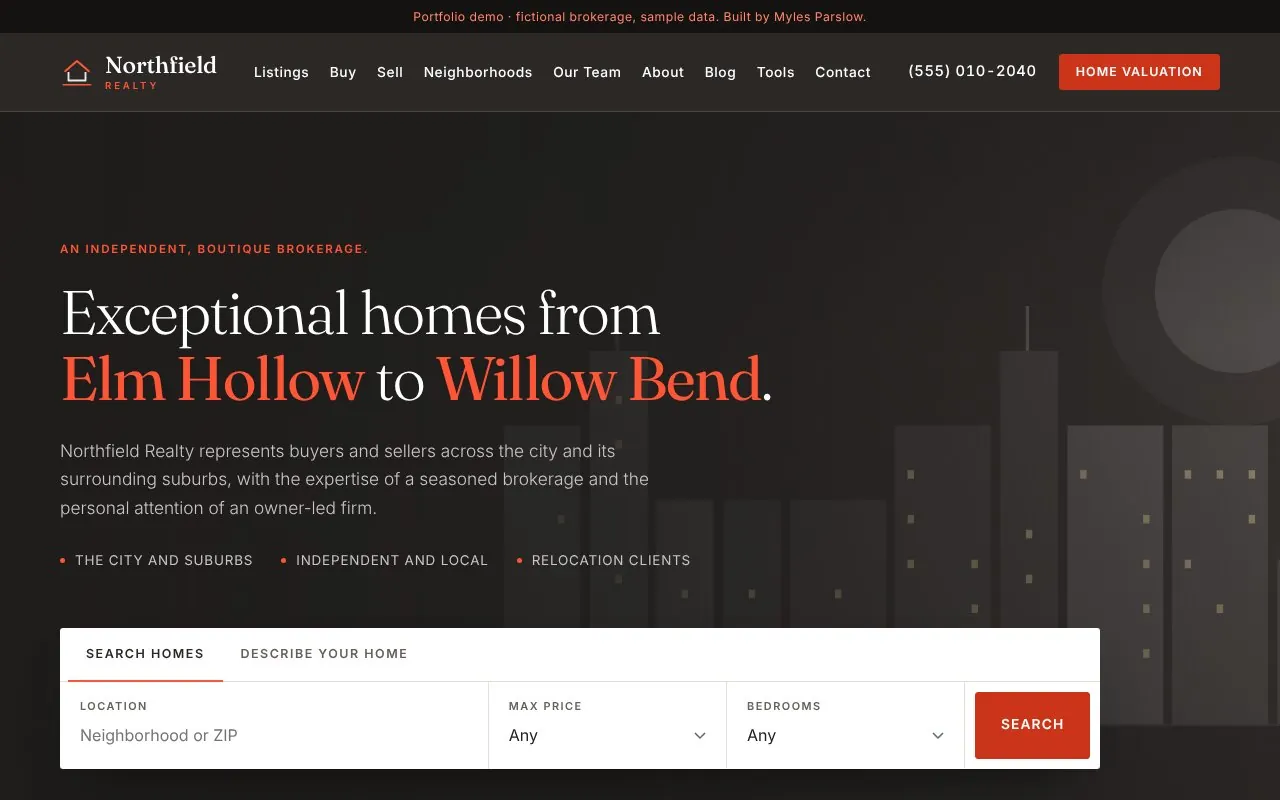
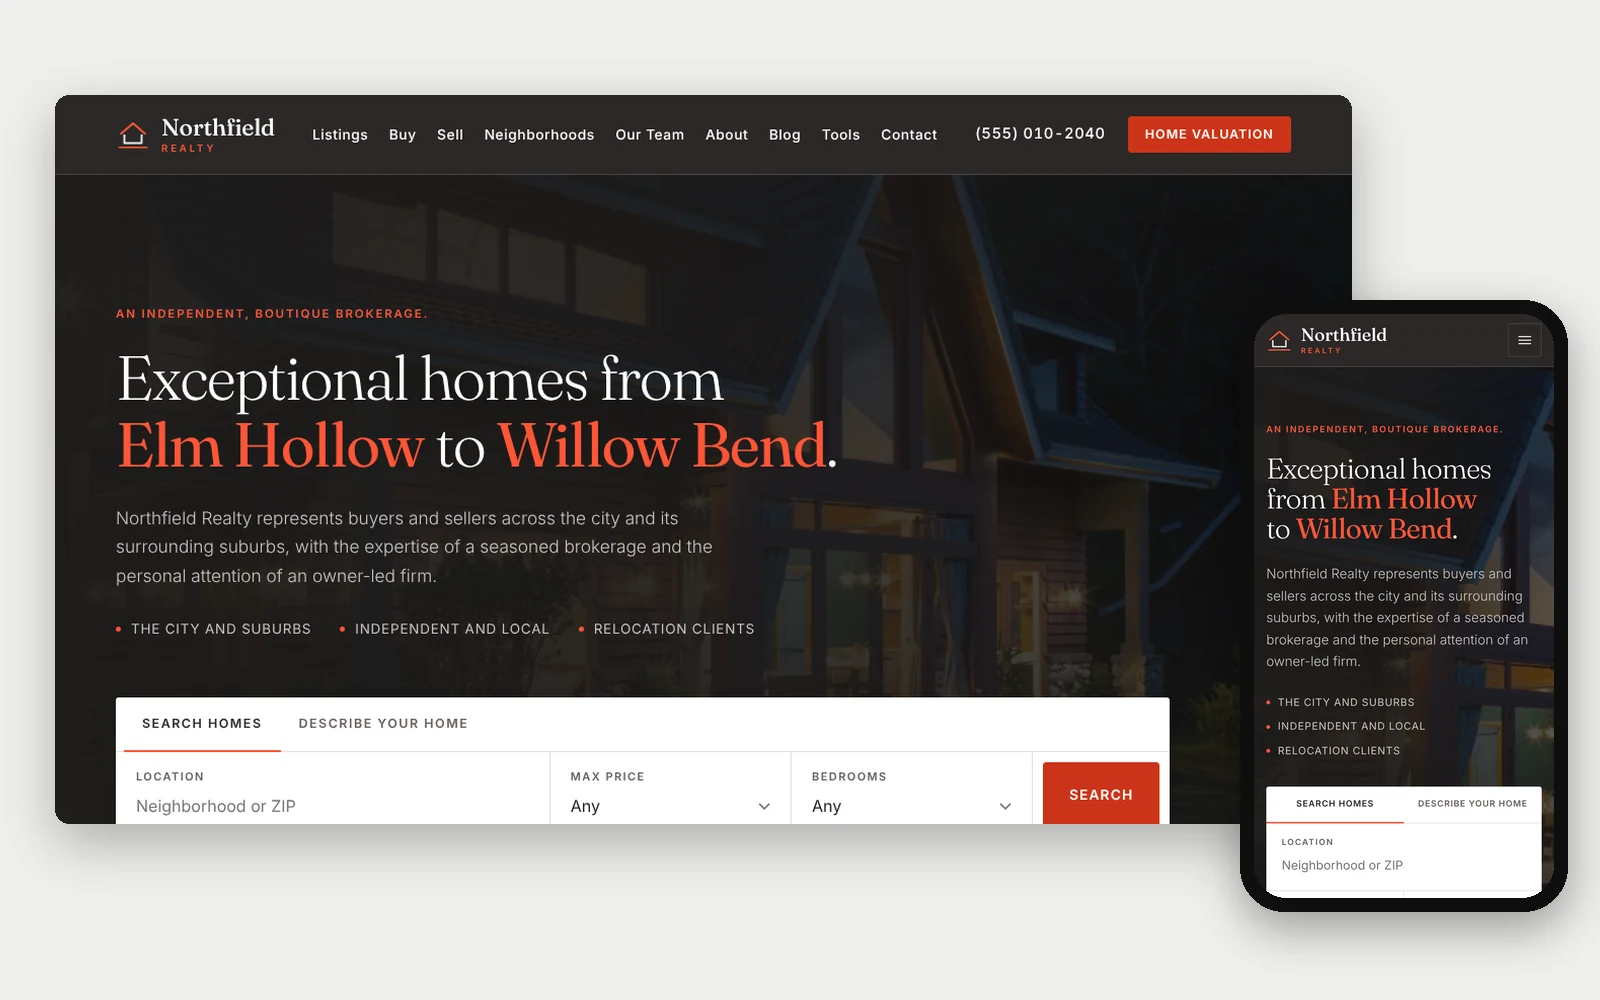
Retake the brokerage screenshot from the version with photos
Claude-Session: https://claude.ai/code/session_01PJvvaKf9xbefScvL2GrXgP

diff --git a/index.html b/index.html
@@ -612,7 +612,7 @@ footer b{color:var(--on-night);font:400 22px/1 var(--display)}
 
       <details class="case rv d1" id="case-brokerage">
         <summary>
-          <div class="thumb"><img src="img/brokerage-site.webp" width="1280" height="800" alt="A redesigned real estate website" loading="lazy"></div>
+          <div class="thumb"><img src="img/brokerage-site.webp" width="1600" height="1000" alt="A redesigned real estate website on desktop and phone" loading="lazy"></div>
           <div class="sum-text">
             <div class="tagrow"><span class="tag built">Proposal · built in full</span><span class="tag">Real estate</span></div>
             <h3>An independent boutique brokerage</h3>
